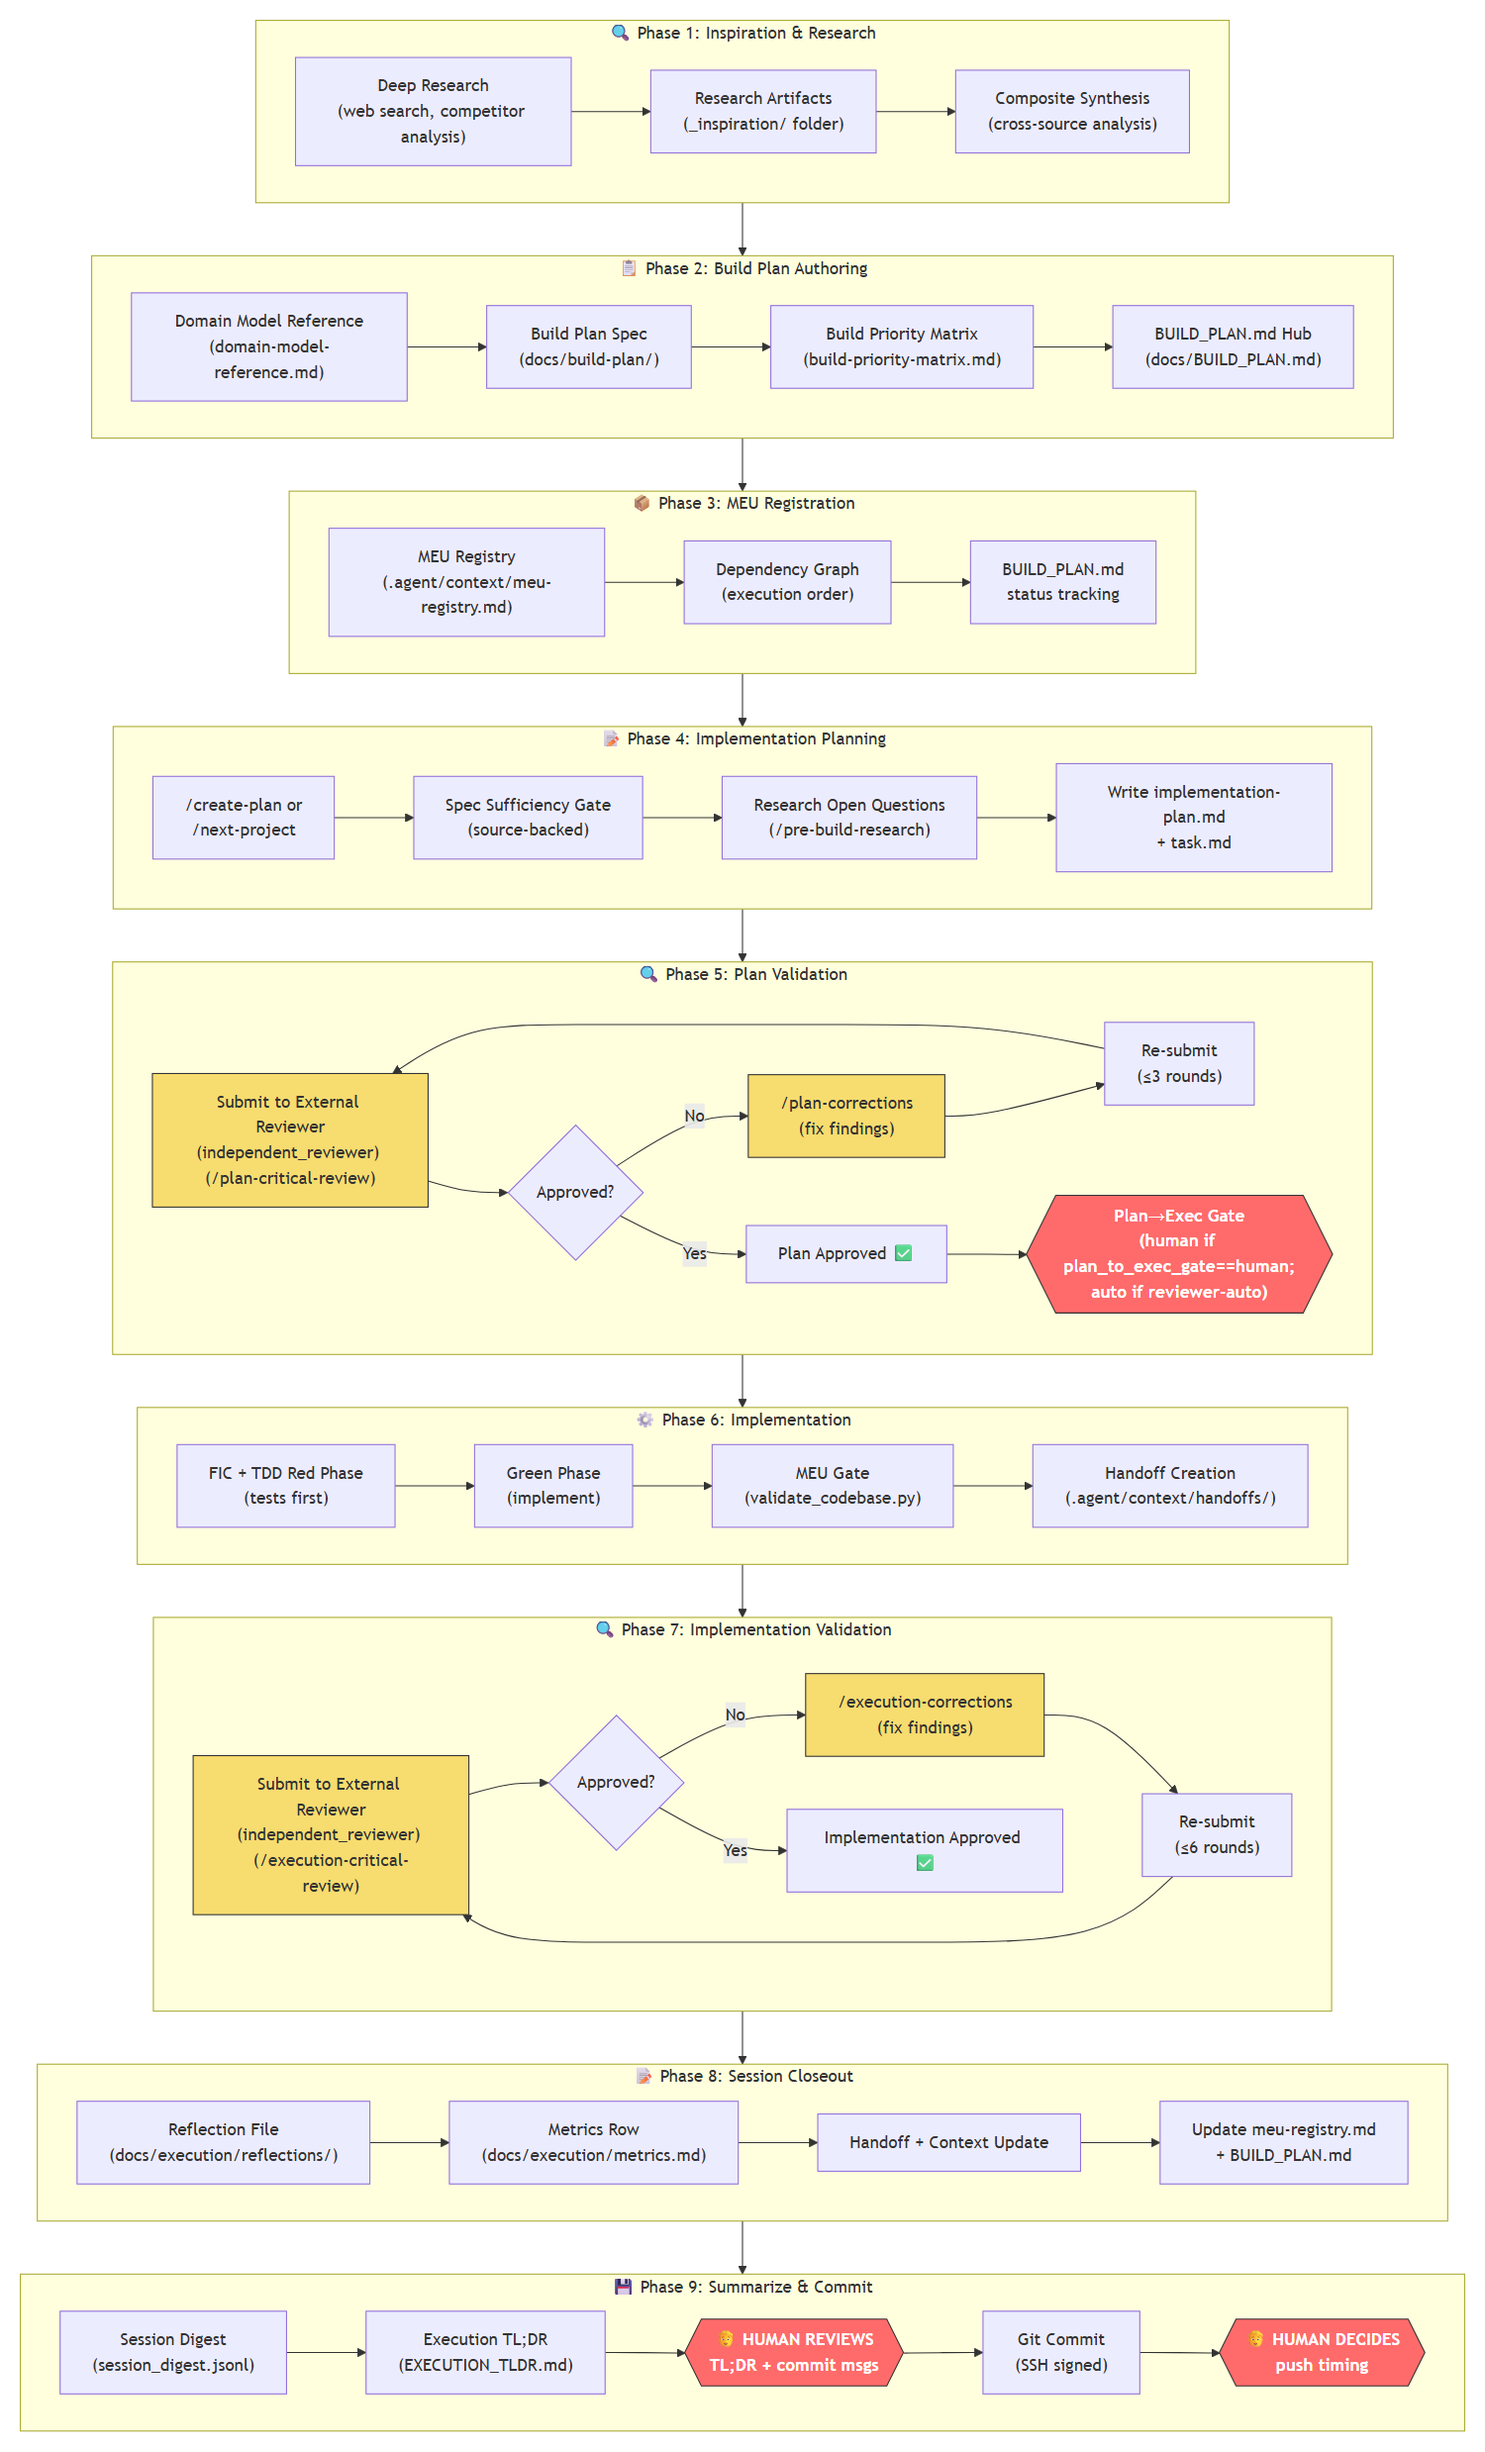
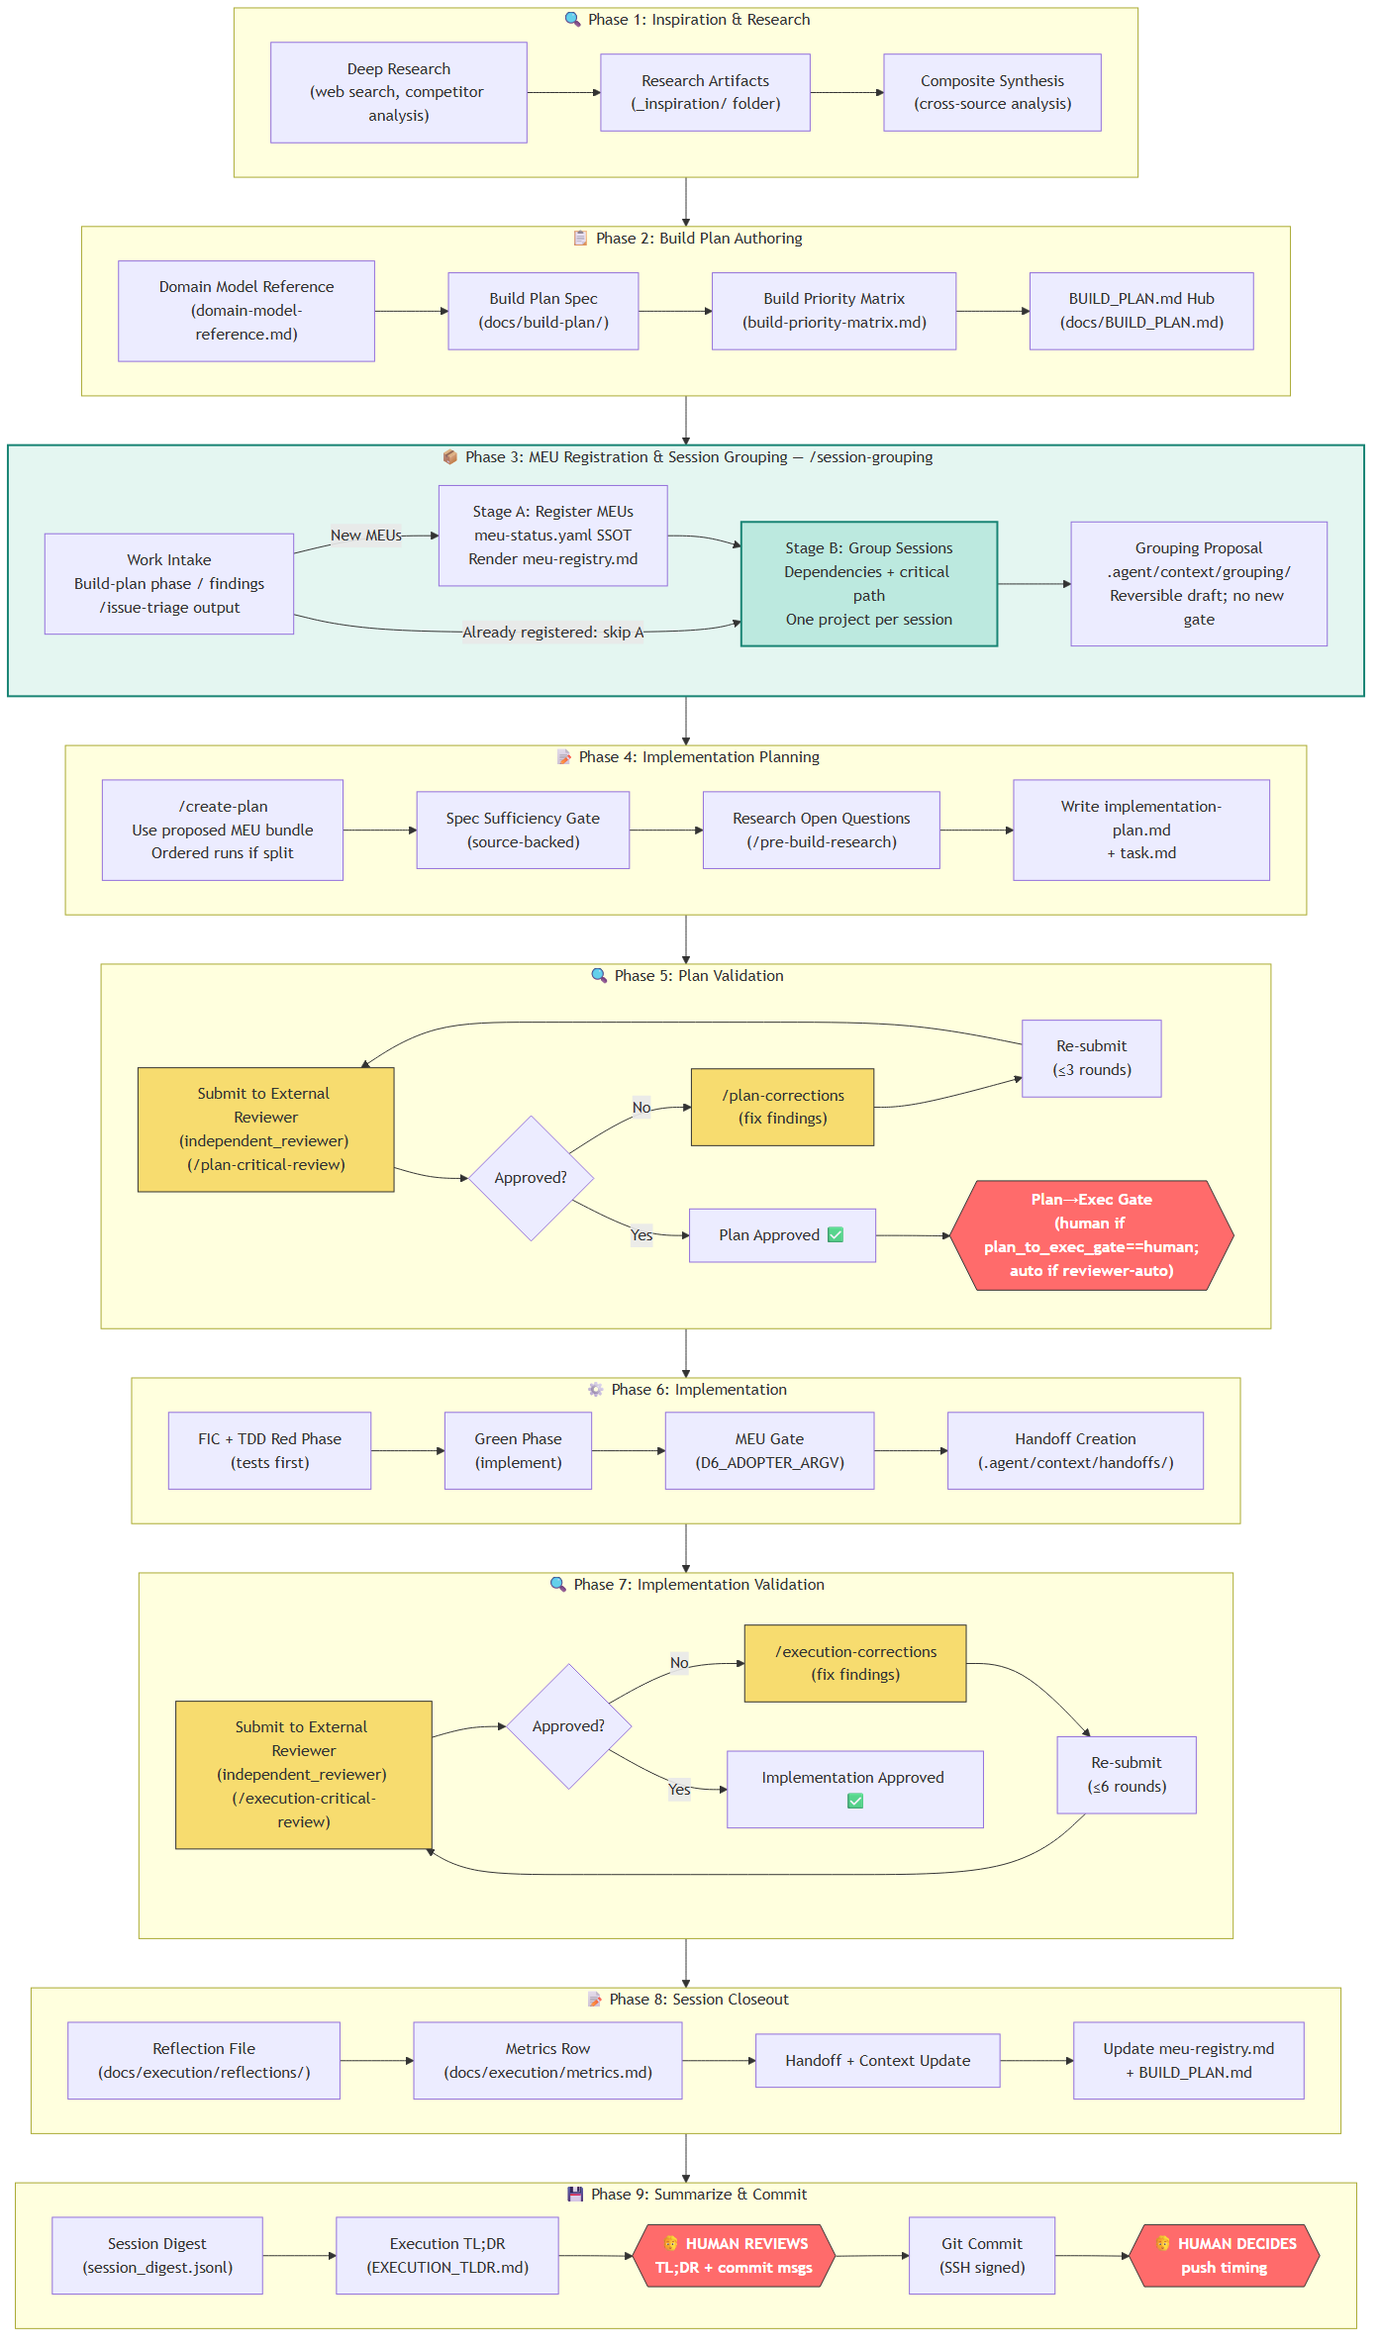
docs: highlight session grouping in lifecycle overview

diff --git a/core/.agent/docs/development-lifecycle.md b/core/.agent/docs/development-lifecycle.md
@@ -7,7 +7,7 @@
 >
 > **Companion doc:** [`agentic-methodology.md`](agentic-methodology.md) is the narrative *why* (philosophy, economics, design rationale). This document is the operational *how* — when the two ever disagree on mechanics, **this document wins**.
 >
-> **Last updated:** 2026-06-18
+> **Last updated:** 2026-09-26
 
 ---
 
@@ -32,16 +32,17 @@ flowchart TD
         B3 --> B4
     end
 
-    subgraph PHASE_3["📦 Phase 3: MEU Registration"]
-        C1["MEU Registry<br/>(.agent/context/meu-registry.md)"]
-        C2["Dependency Graph<br/>(execution order)"]
-        C3["BUILD_PLAN.md<br/>status tracking"]
-        C1 --> C2
-        C2 --> C3
+    subgraph PHASE_3["📦 Phase 3: MEU Registration & Session Grouping — /session-grouping"]
+        C0["Work Intake<br/>Build-plan phase / findings<br/>/issue-triage output"]
+        C1["Stage A: Register MEUs<br/>meu-status.yaml SSOT<br/>Render meu-registry.md"]
+        C2["Stage B: Group Sessions<br/>Dependencies + critical path<br/>One project per session"]
+        C3["Grouping Proposal<br/>.agent/context/grouping/<br/>Reversible draft; no new gate"]
+        C0 -->|New MEUs| C1 --> C2 --> C3
+        C0 -->|Already registered: skip A| C2
     end
 
     subgraph PHASE_4["📝 Phase 4: Implementation Planning"]
-        D1["/create-plan or<br/>/next-project"]
+        D1["/create-plan<br/>Use proposed MEU bundle<br/>Ordered runs if split"]
         D2["Spec Sufficiency Gate<br/>(source-backed)"]
         D3["Research Open Questions<br/>(/pre-build-research)"]
         D4["Write implementation-plan.md<br/>+ task.md"]
@@ -108,6 +109,8 @@ flowchart TD
     classDef review fill:#f7dc6f,stroke:#333,color:#333
     class E6,I1,I3 human
     class E1,E3,G1,G3 review
+    style PHASE_3 fill:#e4f6f1,stroke:#188474,stroke-width:2px
+    style C2 fill:#bce9df,stroke:#188474,stroke-width:2px
 ```
 
 ---
@@ -185,24 +188,28 @@ docs/build-plan/
 
 ---
 
-## Phase 3: MEU Registration
+## Phase 3: MEU Registration & Session Grouping
 
-**Purpose:** Break build plan specs into Manageable Execution Units (MEUs) — the atomic unit of work that goes through the full TDD lifecycle.
+**Purpose:** Turn build-plan phases, review findings, recommendations, or triaged issues into registered Manageable Execution Units (MEUs), then group them into dependency-ordered work sessions before implementation planning.
 
-**Human involvement:** 🟡 Agent proposes MEU breakdown; human reviews via plan approval.
+**Human involvement:** 🟡 Agent drafts the grouping; the existing plan-review and plan-to-execution gates remain in Phases 5–6. `/session-grouping` is planning-only, reversible, and non-gating: it never approves work, dispatches a review, or adds a turn-ender.
 
 ### Process
 
-1. **Agent reads build plan** and proposes MEU decomposition via `/next-project` or `/create-plan`
-2. **MEUs registered** in the MEU registry with slug, matrix reference, description, and status
-3. **Dependency graph** established (which MEUs must complete before others can start)
-4. **BUILD_PLAN.md** updated with MEU references and status tracking
+1. **Work intake** — invoke `/session-grouping <source>` for a build-plan phase, findings document, or recommendations. Prefer `triage-output.yaml` from `/issue-triage` when available; otherwise consult `known-issues.yaml` and the named source.
+2. **Stage A: findings → MEUs** — decompose, number, source-label, and register MEUs in `meu-status.yaml`; give them a build-plan home where needed, then render and check `meu-registry.md`. Skip Stage A when the source's MEUs are already registered.
+3. **Stage B: MEUs → sessions** — always derive dependencies, the critical path, and parallel tiers; bundle related work into sequential sessions with one project per session. Calibrate size against named prior sessions and flag split candidates.
+4. **Write the grouping proposal** to `.agent/context/grouping/{phase-id|YYYY-MM-DD}-{slug}-session-grouping.md`, including scope/traceability, the dependency graph, session rationale, and exact plan-creation pathway.
+5. **Hand off to `/create-plan`** — default to one plan per phase. Multi-session fan-out is an explicitly documented exception: list ordered session slugs and run `/create-plan` once per session block. Without a proposal, `/create-plan` still groups scope inline; this workflow is an optional preparation step, not an extra gate.
 
 ### Key Files
 
 | File | Purpose |
 |------|---------|
-| [`.agent/context/meu-registry.md`](https://{{REPO_URL}}/blob/main/.agent/context/meu-registry.md) | Master MEU registry (all phases) |
+| [`.agent/workflows/session-grouping.md`](../workflows/session-grouping.md) | Two-stage grouping workflow and proposal contract |
+| [`.agent/context/meu-status.yaml`](../context/meu-status.yaml) | MEU source of truth |
+| [`.agent/context/meu-registry.md`](https://{{REPO_URL}}/blob/main/.agent/context/meu-registry.md) | Generated MEU registry (all phases) |
+| [`.agent/context/grouping/`](../context/grouping/README.md) | Canonical grouping proposals feeding `/create-plan` |
 | [`docs/BUILD_PLAN.md`](https://{{REPO_URL}}/blob/main/docs/BUILD_PLAN.md) | Status tracking per MEU |
 | [`docs/build-plan/build-priority-matrix.md`](https://{{REPO_URL}}/blob/main/docs/build-plan/build-priority-matrix.md) | MEU ordering |
 
@@ -230,7 +237,7 @@ docs/build-plan/
 
 ### Process
 
-1. **Agent invokes** `/create-plan` or `/next-project` → [create-plan.md](https://{{REPO_URL}}/blob/main/.agent/workflows/create-plan.md)
+1. **Agent invokes** `/create-plan` (directly or through `/next-project`) → [create-plan.md](https://{{REPO_URL}}/blob/main/.agent/workflows/create-plan.md). Read the grouping proposal when present and use its MEU bundle, slug, and build-plan sections; otherwise group inline. For declared multi-session fan-out, plan each session block in dependency order.
 2. **Spec Sufficiency Gate** — every behavior must be tagged with a source:
    - `Spec` — explicit in build plan
    - `Local Canon` — in another canonical doc

diff --git a/README.md b/README.md
@@ -8,8 +8,11 @@
 
 ![Development lifecycle overview](core/.agent/docs/diagrams/development-lifecycle-overview.png)
 
-The nine-phase delivery loop — research → plan → independent review → implement → validate →
-human-gated commit. ([SVG source](core/.agent/docs/diagrams/development-lifecycle-overview.svg) ·
+The nine-phase delivery loop — research → build specs → register MEUs and group sessions →
+plan → independent review → implement → validate → human-gated commit.
+Session grouping turns findings, phases, and triaged issues into dependency-ordered sessions;
+its proposal feeds `/create-plan` without adding an approval gate.
+([SVG](core/.agent/docs/diagrams/development-lifecycle-overview.svg) ·
 full write-up in [`development-lifecycle.md`](core/.agent/docs/development-lifecycle.md))
 
 ---
